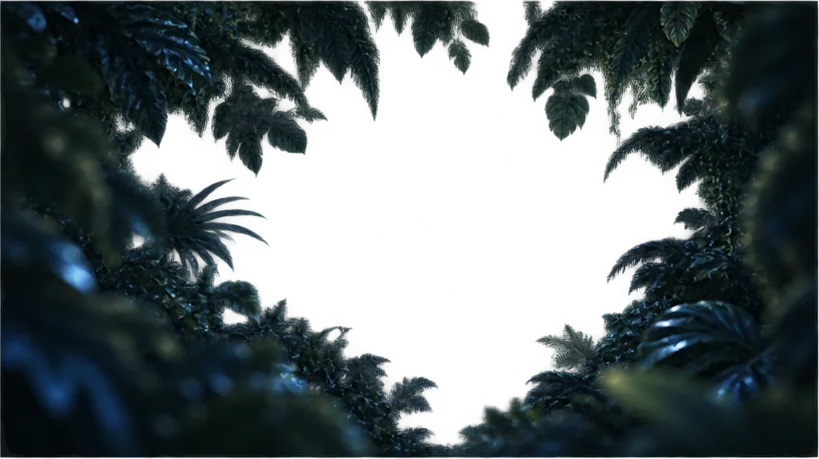
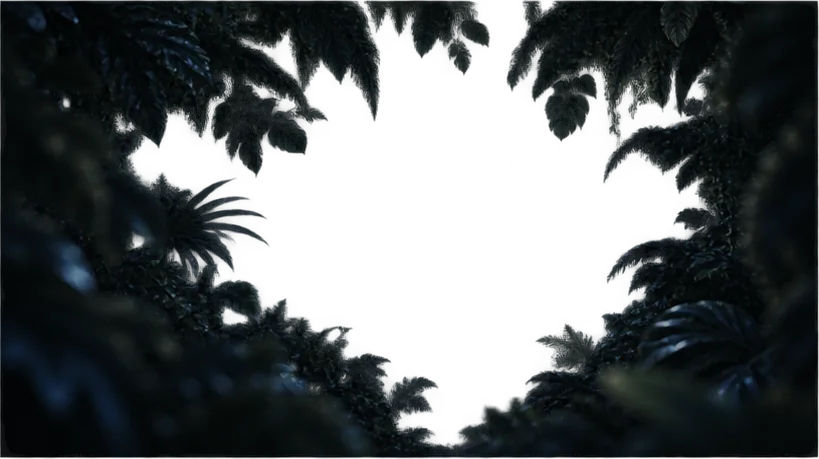
Rework the entrance so the leaves stay readable
It was a featureless wash. The panels are 819px wide, which is already a 3.7x
upscale to fill the frame at 2x density; pushing them to 3.2x on top made it
about 12x, so by the time the foliage felt close there was nothing left in it
to see.

Travel is now roughly half as far over half again as long, and the plates are
reordered. The sharpest one goes closest, which inverts what a real lens does
but the closest plate is also the most magnified, and the blurred one had least
to give there. Its central gap is now what you glimpse the clearing through
before the leaves clear it. Opacity also holds most of the way rather than
dissolving from the first frame.

Grading is baked into the plates by scripts/extract-entrance.py, which also
replaces the hand-measured crop boxes by finding the panels from the sheet's
empty rows and columns. Ungraded they arrived far brighter than the scene they
open onto, so it read as the scene dimming as you reached it — mean luminance
now climbs 17.4 to 24.1 across the entrance instead of falling. Doing that
grading in CSS instead cost an 800ms frame, because a filter on a layer that is
also being scaled re-rasterises every frame; baked it is free, and the worst
frame is back to 66.7ms with p99 at 16.8.

Claude-Session: https://claude.ai/code/session_01HXHcL37sacJdwwADURkShe

diff --git a/src/components/scene/scene.css b/src/components/scene/scene.css
@@ -653,7 +653,7 @@
   position: absolute;
   inset: 0;
   background: var(--sky-0);
-  animation: enter-veil 0.75s ease-out forwards;
+  animation: enter-veil 0.6s ease-out forwards;
 }
 
 .enter-plate {
@@ -662,28 +662,39 @@
   background-repeat: no-repeat;
   background-position: center;
   background-size: cover;
+  /* Grading is baked into the plates, not applied here: a filter on a layer
+     that is also being scaled re-rasterises every frame, and measured an 800ms
+     frame during the entrance. */
   will-change: transform, opacity;
 }
 
-/* Closest to the camera: travels furthest and clears first. */
-.enter-near {
-  background-image: url("/scene/enter-near.webp");
-  animation: enter-near 1.35s cubic-bezier(0.22, 0.66, 0.3, 1) forwards;
+/* Sharpest plate closest, soft mass behind it. That inverts what a real lens
+   would do, but the closest plate is also the most magnified, and these are
+   819px wide: at the scale the first pass used, the blurred one had nothing
+   left to look at. The sharp plate's central gap is what you glimpse the
+   clearing through before the leaves clear it.
+
+   Travel is deliberately short. Pushing a plate this size to 3x turned it into
+   a featureless wash long before it left frame — the effect has to be carried
+   by the leaves staying readable, not by covering distance. */
+.enter-leaves {
+  background-image: url("/scene/enter-mid.webp");
+  animation: enter-leaves 1.9s cubic-bezier(0.36, 0.08, 0.24, 1) forwards;
 }
 
-.enter-mid {
-  background-image: url("/scene/enter-mid.webp");
-  animation: enter-mid 1.75s cubic-bezier(0.22, 0.66, 0.3, 1) forwards;
+.enter-mass {
+  background-image: url("/scene/enter-near.webp");
+  animation: enter-mass 2.25s cubic-bezier(0.36, 0.08, 0.24, 1) forwards;
 }
 
 /* Hangs from the top edge, so it grows away from there rather than from the
    middle — the canopy lifting as you come out from under it. */
-.enter-strands {
+.enter-canopy {
   background-image: url("/scene/enter-strands.webp");
   background-position: center top;
   background-size: 118% auto;
   transform-origin: 50% 0;
-  animation: enter-strands 2.05s cubic-bezier(0.22, 0.66, 0.3, 1) forwards;
+  animation: enter-canopy 2.7s cubic-bezier(0.36, 0.08, 0.24, 1) forwards;
 }
 
 @keyframes enter-veil {
@@ -695,45 +706,50 @@
   }
 }
 
-@keyframes enter-near {
+/* Opacity holds most of the way so the leaves are legible for most of the
+   pass, then goes quickly, rather than dissolving from the first frame. */
+@keyframes enter-leaves {
   from {
-    transform: scale(1.25);
+    transform: scale(1.02) translate3d(0, 0, 0);
     opacity: 1;
   }
-  70% {
-    opacity: 0.5;
+  55% {
+    opacity: 0.92;
   }
   to {
-    transform: scale(3.2);
+    transform: scale(2.15) translate3d(-2.5%, -1.5%, 0);
     opacity: 0;
   }
 }
 
-@keyframes enter-mid {
+@keyframes enter-mass {
   from {
-    transform: scale(1.08);
+    transform: scale(1);
     opacity: 1;
   }
+  45% {
+    opacity: 0.85;
+  }
   to {
-    transform: scale(2.05);
+    transform: scale(1.6);
     opacity: 0;
   }
 }
 
-@keyframes enter-strands {
+@keyframes enter-canopy {
   from {
-    transform: scale(1.02);
+    transform: scale(1);
     opacity: 0.95;
   }
   to {
-    transform: scale(1.5);
+    transform: scale(1.22);
     opacity: 0;
   }
 }
 
 /* The copy waits until the camera has almost settled. */
 html:not(.df-entered) .rise {
-  animation-delay: calc(var(--d, 0s) + 1.15s);
+  animation-delay: calc(var(--d, 0s) + 1.55s);
 }
 
 /* ── 8. content ───────────────────────────────────────────── */

diff --git a/src/components/scene/Hero.tsx b/src/components/scene/Hero.tsx
@@ -82,7 +82,7 @@ export default function Hero() {
     const root = document.documentElement;
     if (root.classList.contains("df-skip")) return;
     const stop = () => root.classList.add("df-skip");
-    const t = window.setTimeout(stop, 2300);
+    const t = window.setTimeout(stop, 2950);
     window.addEventListener("pointerdown", stop, { once: true, passive: true });
     window.addEventListener("wheel", stop, { once: true, passive: true });
     window.addEventListener("keydown", stop, { once: true });
@@ -212,9 +212,9 @@ export default function Hero() {
           not. */}
       <div className="entrance" aria-hidden>
         <div className="enter-veil" />
-        <div className="enter-plate enter-strands" />
-        <div className="enter-plate enter-mid" />
-        <div className="enter-plate enter-near" />
+        <div className="enter-plate enter-canopy" />
+        <div className="enter-plate enter-mass" />
+        <div className="enter-plate enter-leaves" />
       </div>
 
       {/* content */}

diff --git a/scripts/extract-entrance.py b/scripts/extract-entrance.py
@@ -1,0 +1,39 @@
+"""Cut the three entrance plates out of the generated contact sheet.
+
+The sheet arrives as one image holding three panels, so the panels are found by
+their empty rows and columns rather than by hand-measured boxes.
+
+Grading is baked in rather than left to a CSS filter. Ungraded the plates
+arrive far brighter than the scene they open onto, so it looked like the scene
+dimmed as you reached it — but a filter on a layer that is also being scaled
+costs a re-rasterisation per frame, and measured a 800ms frame during the
+entrance. Baked, it is free.
+
+Run: python3 scripts/extract-entrance.py
+"""
+import numpy as np
+from PIL import Image
+
+SRC = "/Users/drewbomar/Downloads/ChatGPT Image Sep 3, 2026, 01_55_50 PM.png"
+# name -> panel box, and whether that panel is a full-bleed curtain
+PANELS = {
+    "enter-near": (9, 9, 828, 468),
+    "enter-mid": (844, 9, 1663, 468),
+    "enter-strands": (260, 481, 1408, 890),
+}
+BRIGHT, SAT = 0.62, 0.72
+
+im = Image.open(SRC).convert("RGBA")
+for name, (x0, y0, x1, y1) in PANELS.items():
+    c = np.asarray(im.crop((x0, y0, x1, y1))).astype(np.float32)
+    rgb = c[..., :3]
+    lum = (rgb * [0.2126, 0.7152, 0.0722]).sum(axis=2, keepdims=True)
+    rgb = np.clip((lum + (rgb - lum) * SAT) * BRIGHT, 0, 255)
+    rgb *= [0.96, 1.0, 1.03]  # a touch bluer, as the scene's own grading is
+    c[..., :3] = np.clip(rgb, 0, 255)
+    # These exports top out near 250 rather than 255; snap so solid leaf bodies
+    # do not veil what is behind them.
+    c[..., 3] = np.where(c[..., 3] >= 246, 255, c[..., 3])
+    out = Image.fromarray(c.astype(np.uint8))
+    out.save("public/scene/%s.webp" % name, quality=84, method=6)
+    print("%-14s %dx%d" % (name, out.width, out.height))
